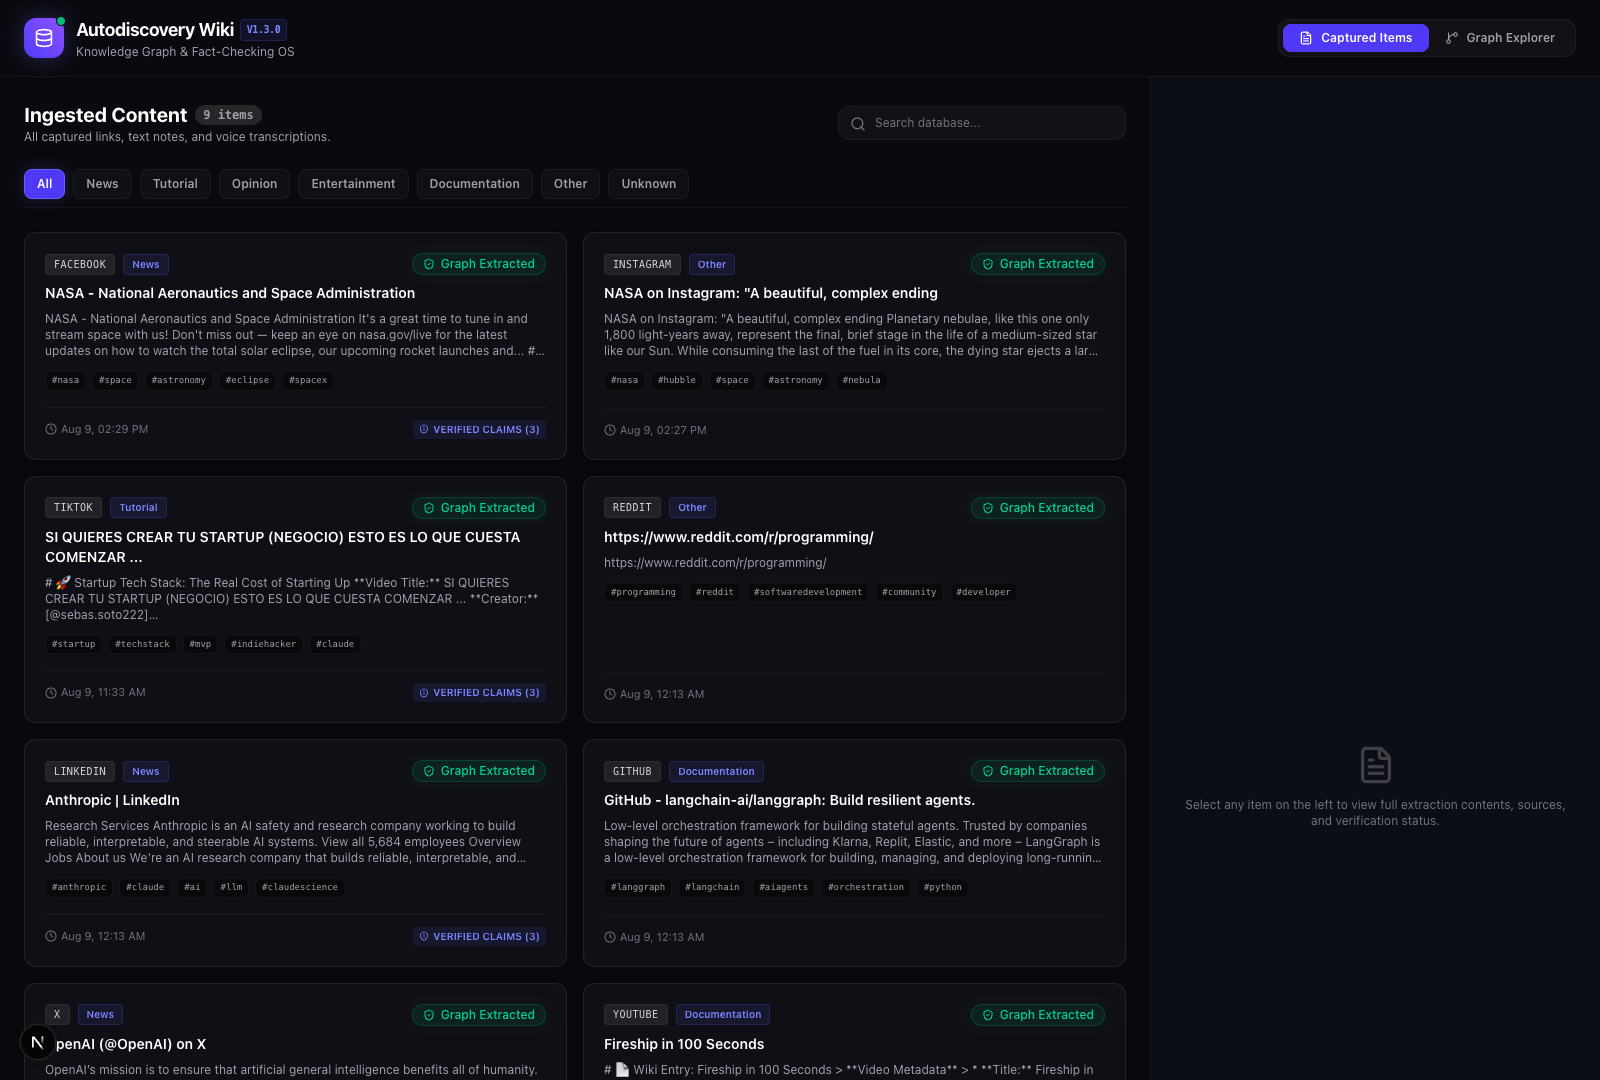
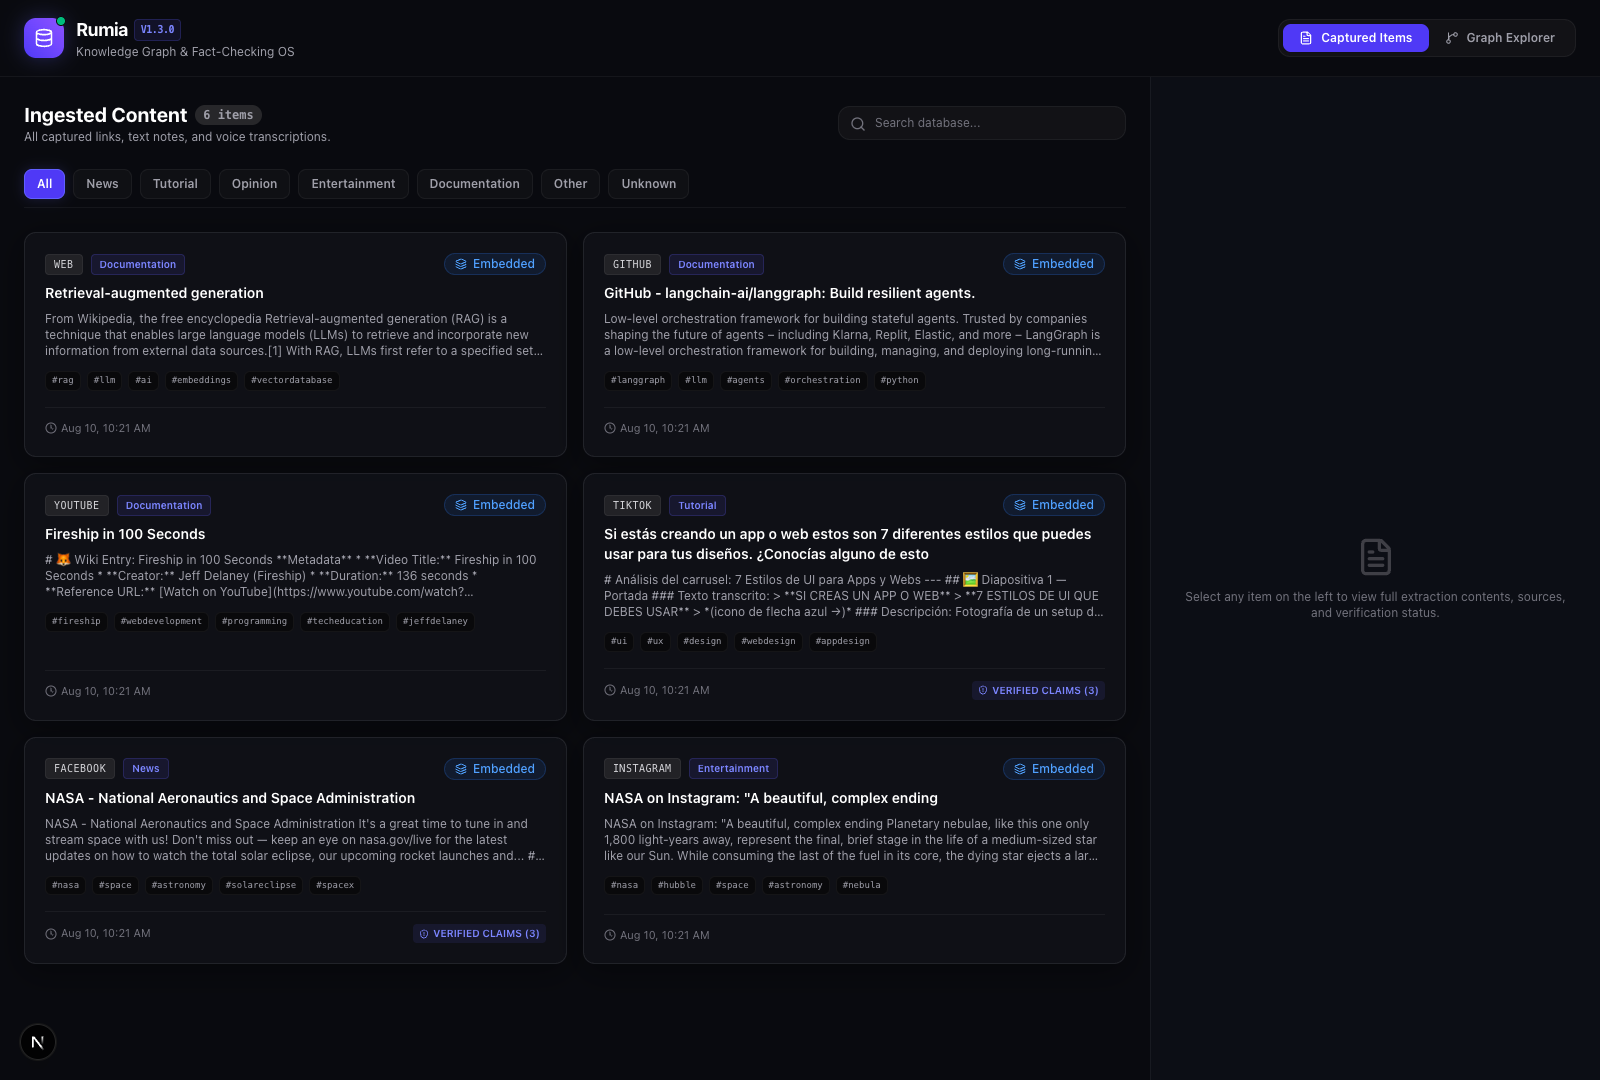
refactor: rename the project to Rumia
"autodiscovery" is a term of art in infrastructure — service discovery, DHCP,
mDNS — so the old name promised a tool that finds things on a network. It also
described the wrong thing: nothing here is discovered automatically. You send
the links; the system's actual work is comprehension.

"Rumia" is rumiar: chewing again what was already swallowed. You consume fast in
the scroll, this processes it slowly until something usable is left.

Renames the package, the Docker services and database, the dashboard title and
the docs. Also scrubs the LAN topology (internal IP and hostname) out of
BACKLOG.md, which mattered once this became a public repository.

diff --git a/src/agents/ingestionAgent.ts b/src/agents/ingestionAgent.ts
@@ -97,7 +97,7 @@ async function synthesizeKnowledge(state: typeof IngestionAgentState.State) {
   console.log('[IngestionAgent] Node: synthesizeKnowledge');
 
   const systemPrompt = `You are an expert technical writer and knowledge base synthesizer.
-Your goal is to write a highly detailed, comprehensive, and beautiful Markdown document for an autodiscovery knowledge wiki.
+Your goal is to write a highly detailed, comprehensive, and beautiful Markdown document for a personal knowledge wiki.
 Combine the audio transcript and the visual timeline analysis into a single, cohesive, self-contained wiki page.
 Include sections like Introduction, Key Concepts, Visual Walkthrough, Summary, and Key Takeaways.`;
 

diff --git a/src/core/llm/providers/OpenRouterProvider.ts b/src/core/llm/providers/OpenRouterProvider.ts
@@ -18,8 +18,8 @@ export class OpenRouterProvider implements LLMProvider {
       apiKey: process.env.OPENROUTER_API_KEY || 'dummy-key',
       baseURL: 'https://openrouter.ai/api/v1',
       defaultHeaders: {
-        'HTTP-Referer': 'https://autodiscovery-wiki.local',
-        'X-Title': 'Autodiscovery Wiki',
+        'HTTP-Referer': 'https://rumia.local',
+        'X-Title': 'Rumia',
       },
     });
     this.flashModel = process.env.OPENROUTER_FLASH_MODEL || 'openai/gpt-4o-mini';

diff --git a/BACKLOG.md b/BACKLOG.md
@@ -1,4 +1,4 @@
-# Backlog — AutoDiscovery Wiki
+# Backlog — Rumia
 
 Estado del backlog tras la auditoría de capacidades del 2026-08-08.
 Cada ítem indica si **la solución ya está decidida** o si primero hace falta un spike de investigación.
@@ -54,7 +54,7 @@ de visión marque el item como degradado en vez de tragárselo.
 
 ### ~~B13. El proxy no expone `/v1/embeddings` → toda la fase RAG está rota~~ ✅ HECHO (2026-08-08)
 [OllamaProvider.ts](src/core/llm/providers/OllamaProvider.ts) nuevo, registrado en el factory
-como `ollama`; `EMBEDDING_LLM_PROVIDER=ollama` contra `bge-m3` en `ubuntu-lan`. Esquema migrado
+como `ollama`; `EMBEDDING_LLM_PROVIDER=ollama` contra `bge-m3` en la laptop de la LAN. Esquema migrado
 a `vector(1024)` en `item_chunks` y `nodes`. `CodexProvider` y `AntigravityProvider` dejaron de
 devolver vectores de ceros: ahora lanzan.
 **Verificado con la cadena real, no solo con mocks:** `EmbeddingService` → Ollama → Postgres
@@ -78,11 +78,11 @@ El endpoint **no existe** en cliproxyapi, y ninguno de los 35 modelos servidos e
 (son todos de chat/imagen/video). Con `EMBEDDING_LLM_PROVIDER=cliproxyapi`, la cola de embedding
 falla entera → sin chunks vectorizados → **`/ask`, la búsqueda semántica y el RAG no funcionan**.
 Hallazgo nuevo, no detectado en la auditoría inicial.
-**Solución encontrada (2026-08-08):** la laptop Ubuntu de la LAN (`ubuntu-lan` → 192.168.1.12)
+**Solución encontrada (2026-08-08):** una laptop Ubuntu en la LAN
 corre **Ollama con `nomic-embed-text` ya instalado**, expuesto en `0.0.0.0:11434` y alcanzable
 desde el Mac. Su endpoint OpenAI-compatible responde:
 ```
-POST http://192.168.1.12:11434/v1/embeddings {"model":"nomic-embed-text"}  → 200, 768 dims
+POST http://LAPTOP_LAN:11434/v1/embeddings {"model":"nomic-embed-text"}  → 200, 768 dims
 ```
 **Bloqueador:** `schema.sql` declara `vector(1536)` en `item_chunks.embedding` (línea 37) y en
 los nodos del grafo (línea 51) — dimensión de `text-embedding-3-small`. `nomic-embed-text`
@@ -113,7 +113,7 @@ embedding funcione. Evaluar si eso es aceptable o si conviene un fallback.
 </details>
 
 ### ~~B3. La transcripción de audio está en modo mock~~ ✅ HECHO (2026-08-09)
-**faster-whisper `large-v3` cuantizado a int8_float16** en `ubuntu-lan`, servido por un endpoint
+**faster-whisper `large-v3` cuantizado a int8_float16** en la laptop de la LAN, servido por un endpoint
 compatible con la API de OpenAI en `:9000` (`~/whisper-server/`, arranca con `run.sh`). La
 cuantización es lo que lo hace caber: fp16 pide ~10GB y la RTX 3060 Laptop tiene 6.
 **Medido con verdad conocida**, no asumido:

diff --git a/README.md b/README.md
@@ -1,6 +1,6 @@
 <div align="center">
 
-# 🛰 Autodiscovery Wiki
+# 🐄 Rumia
 
 **Mandas un enlace por Telegram. Vuelve convertido en conocimiento.**
 
@@ -8,9 +8,12 @@ Captura, entiende, verifica y conecta todo lo que consumes en internet —
 vídeos, carruseles, imágenes, artículos, audios— en una base de conocimiento
 personal que puedes preguntar en lenguaje natural.
 
+<sub>*rumiar*: masticar de nuevo lo que ya se tragó.<br/>
+Tú consumes rápido en el scroll; esto lo procesa despacio hasta dejar algo aprovechable.</sub>
+
 </div>
 
-![Dashboard de Autodiscovery Wiki](docs/dashboard.png)
+![Dashboard de Rumia](docs/dashboard.png)
 
 ---
 
@@ -141,7 +144,7 @@ relacionado. Whisper transcribe español, inglés y frases que mezclan ambos
 API de OpenAI.
 
 ```bash
-git clone <este-repo> && cd autodiscovery-wiki
+git clone <este-repo> && cd rumia
 npm install
 cp .env.example .env      # y rellena las credenciales
 docker compose up -d      # PostgreSQL + Redis
